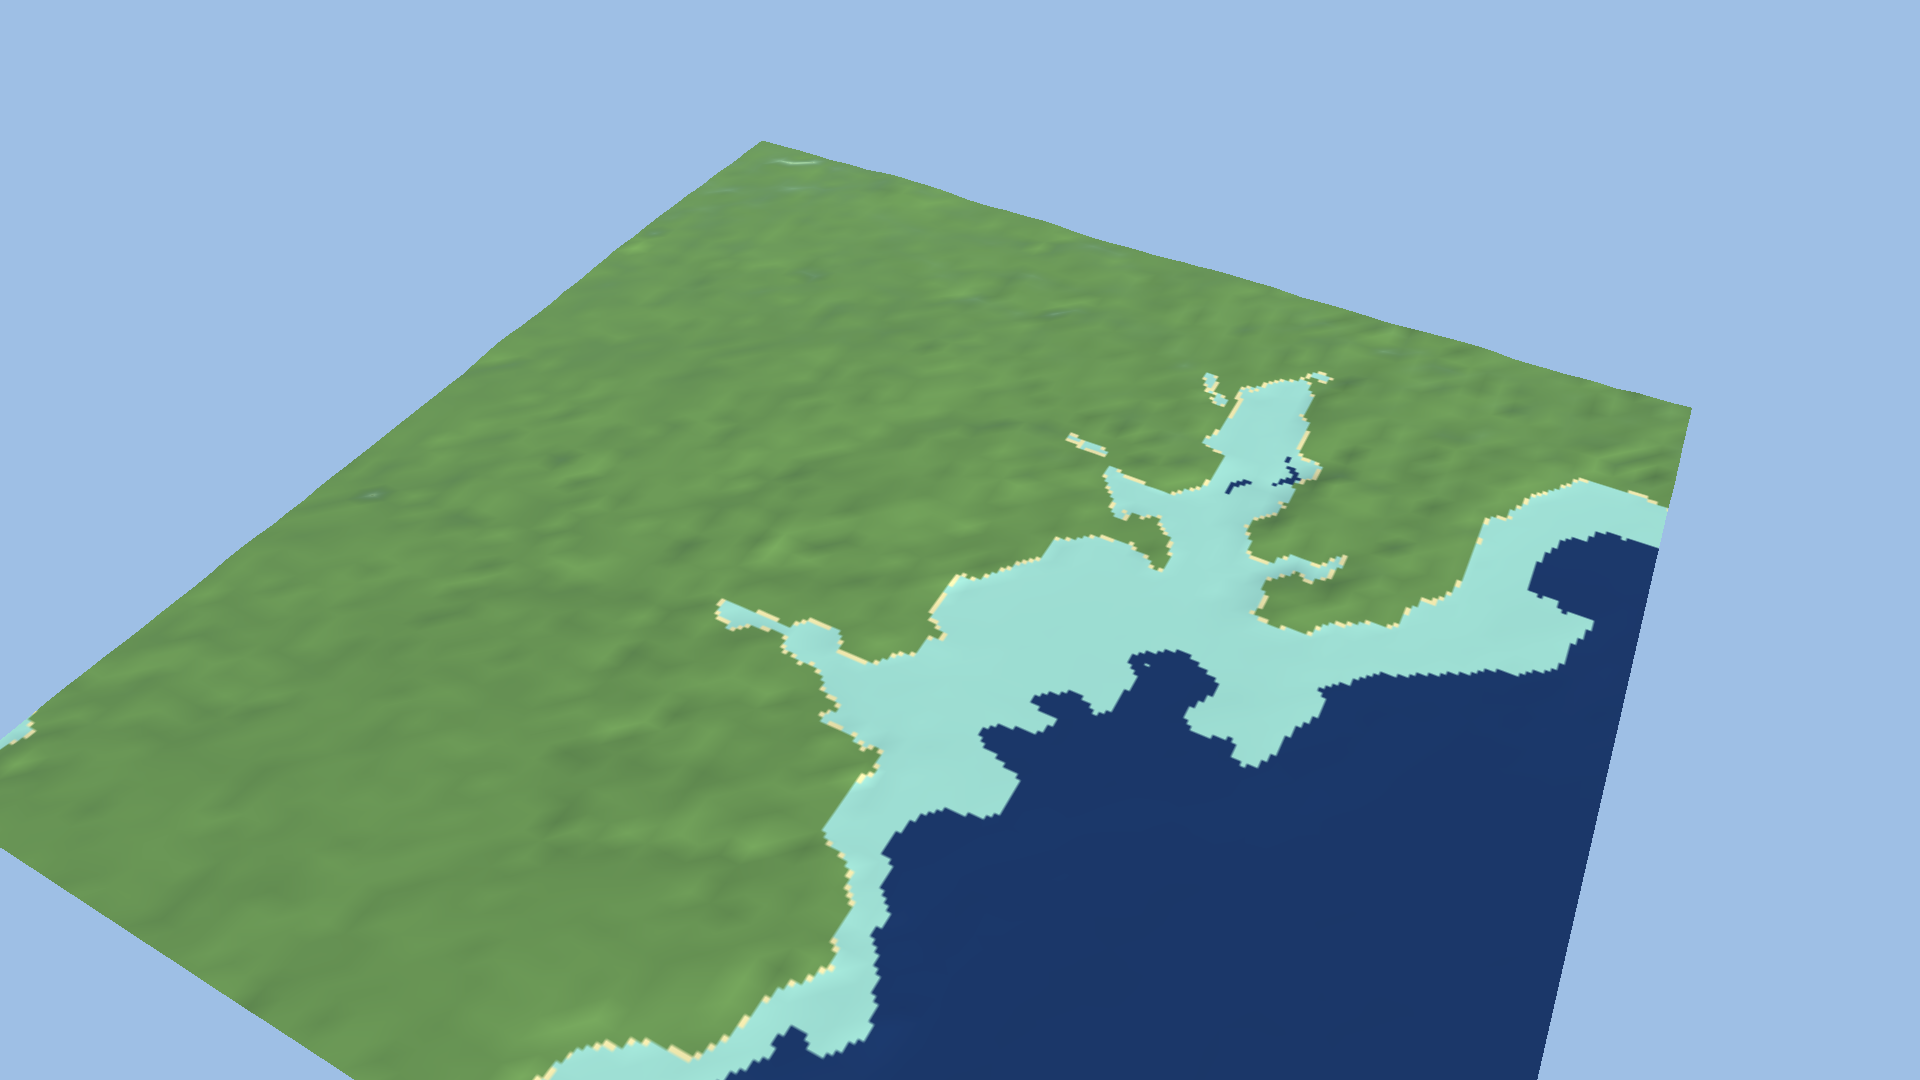
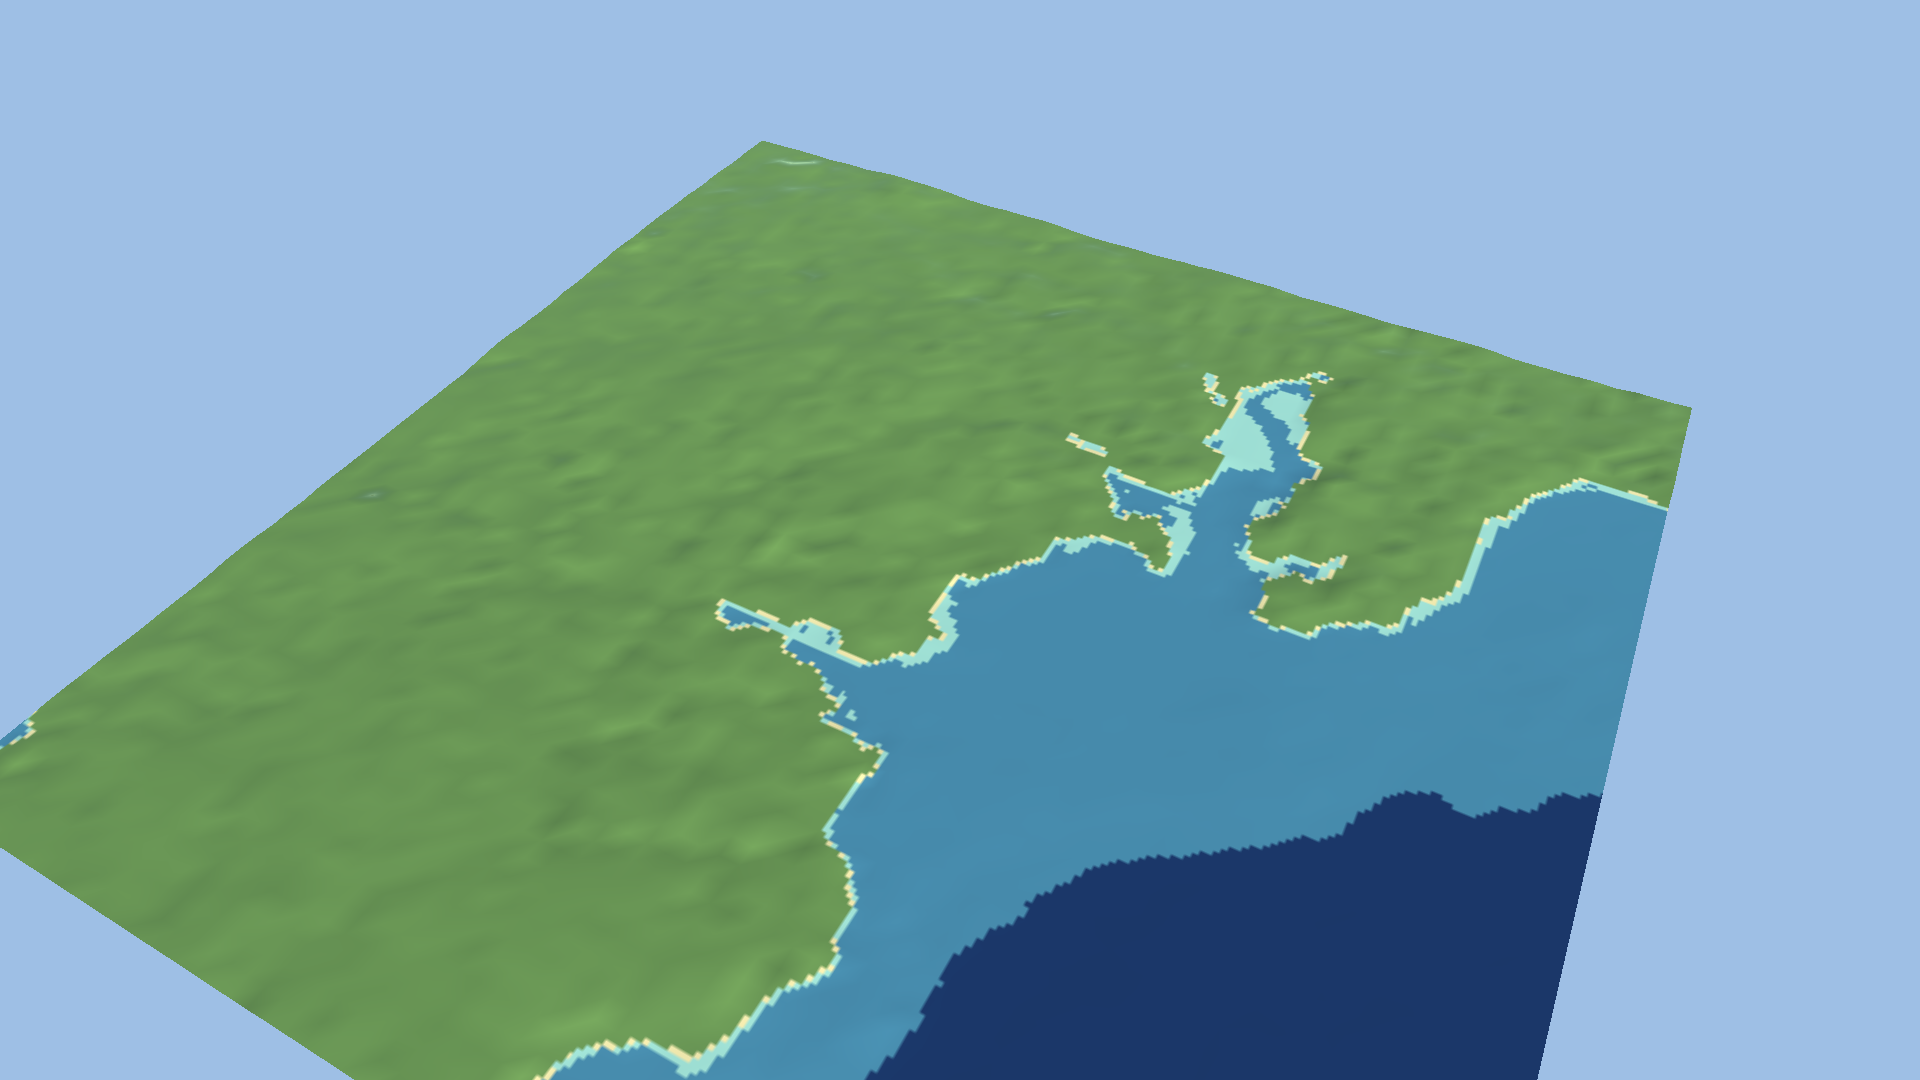
Unity: restore 5 terrain layers; PlayMode check requires terrain coverage; fix docs per review

Changed region(s): [[0.2812, 0.3361, 0.875, 1.0], [0.375, 0.55, 0.4062, 0.5806], [0.0, 0.6722, 0.0312, 0.7028]]

diff --git a/internal/export/unitypkg/Editor/OceanWorldImporter.cs b/internal/export/unitypkg/Editor/OceanWorldImporter.cs
@@ -41,13 +41,13 @@ public static class OceanWorldImporter
     public static event Action<OceanWorldIndex, Dictionary<string, string>> TilesImported;
 
     const double Tolerance = 0.05; // metres; 16-bit quantisation over typical ranges is ~0.005 m
-    // URP and HDRP terrain shaders draw 4 layers per pass; a 5th needs an extra pass shader that did not render (magenta) in the URP test, so 4 layers.
-    const int Layers = 4; // land, shore, shallow, deep
+    const int Layers = 5; // land, shore, shallow, mid, deep
     static readonly Color[] LayerColors =
     {
-        new Color(0.33f, 0.45f, 0.24f), new Color(0.76f, 0.70f, 0.50f), new Color(0.45f, 0.65f, 0.60f), new Color(0.10f, 0.20f, 0.34f),
+        new Color(0.33f, 0.45f, 0.24f), new Color(0.76f, 0.70f, 0.50f), new Color(0.50f, 0.68f, 0.62f),
+        new Color(0.22f, 0.42f, 0.50f), new Color(0.08f, 0.16f, 0.30f),
     };
-    static readonly string[] LayerNames = { "land", "shore", "shallow", "deep" };
+    static readonly string[] LayerNames = { "land", "shore", "shallow", "mid", "deep" };
 
     [MenuItem("Ocean/Import World")]
     public static void ImportMenu()
@@ -146,11 +146,11 @@ public static class OceanWorldImporter
                 int vz = Math.Min(S - 1, (int)Math.Round((z + 0.5) * (S - 1) / res)), vx = Math.Min(S - 1, (int)Math.Round((x + 0.5) * (S - 1) / res));
                 int c = cls[vz * S + vx], layer;
                 if (c == 0) layer = shore[vz * S + vx] != 0 ? 1 : 0;
-                else if (c == 255) layer = 3; // nodata: drawn as deep, not hidden
+                else if (c == 255) layer = 4; // nodata: drawn as deep, not hidden
                 else
                 {
                     double f = waterClasses <= 1 ? 1 : (c - 1.0) / (waterClasses - 1);
-                    layer = f < 0.4 ? 2 : 3; // roughly the shallow half of the depth bands vs the rest
+                    layer = f < 0.2 ? 2 : f < 0.6 ? 3 : 4;
                 }
                 a[z, x, layer] = 1;
             }

diff --git a/internal/export/unitypkg/Tests/OceanAddressablesRuntimeTests.cs b/internal/export/unitypkg/Tests/OceanAddressablesRuntimeTests.cs
@@ -78,8 +78,13 @@ namespace OceanCompiler.World.Tests
                 RenderTexture.active = null;
                 int pink = 0; foreach (var c in img.GetPixels()) if (c.r > 0.8f && c.g < 0.3f && c.b > 0.8f) pink++;
                 float frac = pink / (256f * 256f);
+                // An all-background frame also has no pink: require that terrain actually fills part of the picture.
+                int seen = 0; foreach (var c in img.GetPixels()) if (Mathf.Abs(c.r - cam.backgroundColor.r) + Mathf.Abs(c.g - cam.backgroundColor.g) + Mathf.Abs(c.b - cam.backgroundColor.b) > 0.05f) seen++;
+                float cover = seen / (256f * 256f);
+                Debug.Log("OCEAN_TERRAIN_COVERAGE " + cover.ToString("F4"));
                 Debug.Log("OCEAN_PINK_FRACTION " + frac.ToString("F4") + " pipeline=" + (UnityEngine.Rendering.GraphicsSettings.currentRenderPipeline != null ? UnityEngine.Rendering.GraphicsSettings.currentRenderPipeline.GetType().Name : "Built-in"));
                 Object.Destroy(cam.gameObject);
+                Assert.Greater(cover, 0.2f, "probe camera sees no terrain");
                 Assert.Less(frac, 0.01f, "terrain renders with the pink error shader from a distance");
                 foreach (var g in instances) Addressables.ReleaseInstance(g);
                 Debug.Log("OCEAN_RUNTIME_OK world=" + index.worldName + " tilesLoaded=" + loaded.Count + " checkpoints=" + index.checkpoints.Length);

diff --git a/README.md b/README.md
@@ -78,7 +78,7 @@ Unity -batchmode -projectPath <project> -executeMethod OceanWorldImporter.Import
 
 ![Falmouth in Unity 6000.4.0f1 under URP 17.4: 16 prefab tiles, shore sand and seabed painted by depth under a translucent sea plane](docs/img/falmouth-unity-urp.png)
 
-Rendered by the importer itself (`-oceanShot`, no `-nographics`) on Unity 6000.4.0f1. The importer checks six manifest checkpoints (highest and lowest vertices, four corners) against `Terrain.SampleHeight` through its own UTM→Unity conversion; Falmouth's largest error is 3 mm under both pipelines and any flip or offset fails the import. **Tested pipelines:** Built-in (`docs/img/falmouth-unity.png`) and URP 17.4 (a scratch copy of the demo project with the pipeline settings of a working URP project); the PlayMode test below finds no pink shader pixels under either when viewing the terrain from 3.5 km. **HDRP is untested.** Terrains use the active pipeline's default terrain material (4 layers: land, shore, shallow, deep; a 5th layer needs an add-pass shader). The sea plane picks URP Lit, HDRP Lit or Standard and has only been seen under Built-in and URP. Caveat: in a batchmode screenshot URP's far-LOD terrain draws magenta because the editor never ticks (the screenshot code raises `basemapDistance` in memory to avoid it); in play mode it renders correctly. `docs/img/falmouth-unity-seabed.png` shows the seabed with the sea plane hidden (`-oceanHideSea`): only two water tones (shallow/deep) and no visible relief, because the layers are flat colours and the DEM is ~115 m GMRT/GEBCO-filled water; it is a data and placeholder-material view, not a finished underwater look. Not implemented: LOD levels above 0 (the index has a `level` field, only 0 exists), water shader, textures, nautical features. A PlayMode test in the package (`Tests/`, needs `testables` in the project manifest) loads the index and tiles through Addressables from the **built bundles** (asserts `BundledAssetProvider`), links neighbours and checks the six checkpoints against `SampleHeight` within 5 cm (Falmouth: passes, 4 tiles loaded). That runs in the editor's play mode, not in a standalone player build.
+Rendered by the importer itself (`-oceanShot`, no `-nographics`) on Unity 6000.4.0f1. The importer checks six manifest checkpoints (highest and lowest vertices, four corners) against `Terrain.SampleHeight` through its own UTM→Unity conversion; Falmouth's largest error is 3 mm under both pipelines and any flip or offset fails the import. **Tested pipelines:** Built-in (`docs/img/falmouth-unity.png`) and URP 17.4 (a scratch copy of the demo project with the pipeline settings of a working URP project); the PlayMode test below finds no pink shader pixels under either when viewing the terrain from 3.5 km (the probe frame is 77% terrain, asserted above 20% so a blank frame cannot pass). **HDRP is untested.** Terrains use the active pipeline's default terrain material (5 layers: land, shore, shallow, mid, deep). The sea plane picks URP Lit, HDRP Lit or Standard and has only been seen under Built-in and URP. Caveat: in a batchmode screenshot URP's far-LOD terrain draws magenta because the editor never ticks (the screenshot code raises `basemapDistance` in memory to avoid it); in play mode it renders correctly. `docs/img/falmouth-unity-seabed.png` shows the seabed with the sea plane hidden (`-oceanHideSea`): flat colour bands with hard edges and no visible relief, because the layers are flat colours and the water elevation is GMRT (39 m native at Falmouth) with GEBCO fill (758 m) where there is no survey; it is a data and placeholder-material view, not a finished underwater look. Not implemented: LOD levels above 0 (the index has a `level` field, only 0 exists), water shader, textures, nautical features. A PlayMode test in the package (`Tests/`, needs `testables` in the project manifest) loads the index and tiles through Addressables from the **built bundles** (asserts `BundledAssetProvider`), links neighbours and checks the six checkpoints against `SampleHeight` within 5 cm (Falmouth: passes, 4 tiles loaded). That runs in the editor's play mode, not in a standalone player build.
 
 ## Refining land in LibreTerrain (optional)
 

diff --git a/docs/development-log.md b/docs/development-log.md
@@ -54,8 +54,8 @@ Ran LibreTerrain's headless MCP bridge and measured it (`docs/research/libreterr
 
 - Runtime check: PlayMode test in the Unity package loads `ocean-index` and tile prefabs through Addressables from built bundles (`BundledAssetProvider` asserted), links neighbours with `OceanWorldIndex.LinkNeighbours`, and matches 6 index checkpoints to `SampleHeight` within 5 cm: pass. First attempts found 0 tests (PlayMode asmdef must not be Editor-only; test-framework had to be installed and the package listed under `testables`). `BuildAndCheck` now switches the Addressables play mode script to the packed build.
 
-- URP 17.4 test (scratch copy of the demo project, pipeline settings copied from a working URP project; the user's own projects were only read): first screenshot was magenta. Not the pipeline (a plain URP Lit cube rendered correctly in the same context) and not the shaders (`isSupported`, no errors): distant terrain uses URP's far-LOD base map, which a batchmode editor never generates. Raising `basemapDistance` fixed the screenshot; a PlayMode test (loads from Addressables bundles, camera 3.5 km away, counts pink pixels) gets 0.0000 under both Built-in and URP. Also dropped the hand-made URP `Terrain/Lit` template material (the pipeline's default is used) and went from 5 to 4 terrain layers (URP/HDRP terrain shaders render 4 per pass). This replaced an earlier wrong hypothesis (5th-layer add pass) that the experiment disproved.
+- URP 17.4 test (scratch copy of the demo project, pipeline settings copied from a working URP project; the user's own projects were only read): first screenshot was magenta. Not the pipeline (a plain URP Lit cube rendered correctly in the same context) and not the shaders (`isSupported`, no errors): distant terrain uses URP's far-LOD base map, which a batchmode editor never generates. Raising `basemapDistance` fixed the screenshot; a PlayMode test (loads from Addressables bundles, camera 3.5 km away, counts pink pixels) gets 0.0000 under both Built-in and URP. Also dropped the hand-made URP `Terrain/Lit` template material (the pipeline's default is used). An earlier hypothesis (5 layers need an add pass, so use 4) was disproved: the screenshot stayed magenta at 4 layers, so 5 layers were restored and pass the same tests. Review also found the pink check could pass on an empty frame; the test now requires >20% terrain coverage (measured 0.766 Built-in, 0.765 URP) and a re-run passes under both.
 
 - Mindelo (real, non-square, 5x4 tiles) unmodified LibreTerrain round trip through the real app: 0 cells changed, 20/20 tiles byte-identical. Committed a small real LibreTerrain output sample (`testdata/libreterrain/`).
 
-- Seabed view (`-oceanHideSea`, URP): water renders as two flat tones with a hard shallow/deep edge from the depth classes. Fine as a data check; a real underwater look needs a depth-gradient material and finer bathymetry (roadmap). Dropping to 4 terrain layers merged the former mid/deep bands into 'deep'.
+- Seabed view (`-oceanHideSea`, URP): water renders as two flat tones with a hard shallow/deep edge from the depth classes. Fine as a data check; a real underwater look needs a depth-gradient material and finer bathymetry (roadmap). Screenshots regenerated from the current importer (5 layers); none contains magenta pixels; basemapDistance and the hidden sea plane do not reach the saved scene.

diff --git a/docs/roadmap.md b/docs/roadmap.md
@@ -17,7 +17,7 @@
 ## From the ecosystem research (docs/research/ecosystem.md, 2026-10-30)
 
 - Seascape (openwatersio, BSD-3 code, CC BY 4.0 tiles, Terrarium PNG tiles over HTTPS) as an optional fallback bathymetry source; its source catalogue is the regional-source list. Datum varies per source.
-- EMODnet DTM 2024 (~115 m) via WCS and NOAA CUDEM via the public S3 bucket, fetched through GDAL. EMODnet licence text still to read; ~115 m will not beat GMRT's delivered 39 m at Falmouth, so value is elsewhere.
+- EMODnet DTM 2024 (~115 m, from research, not re-measured here) via WCS and NOAA CUDEM via the public S3 bucket, fetched through GDAL. EMODnet licence text still to read; ~115 m will not beat GMRT's delivered 39 m at Falmouth, so value is elsewhere.
 - Engine-exact tile sizes: Unreal needs 2ⁿ−1-style sizes and a Z-scale (default 100 covers only ±256 m) written to the manifest.
 - OSM seamarks via the existing Overpass client; verify the `seamark:type` list first. Seamap is GPL-3.0: reference only.
 - Cesium plugins are Apache-2.0: possible later output target, not a core dependency.
